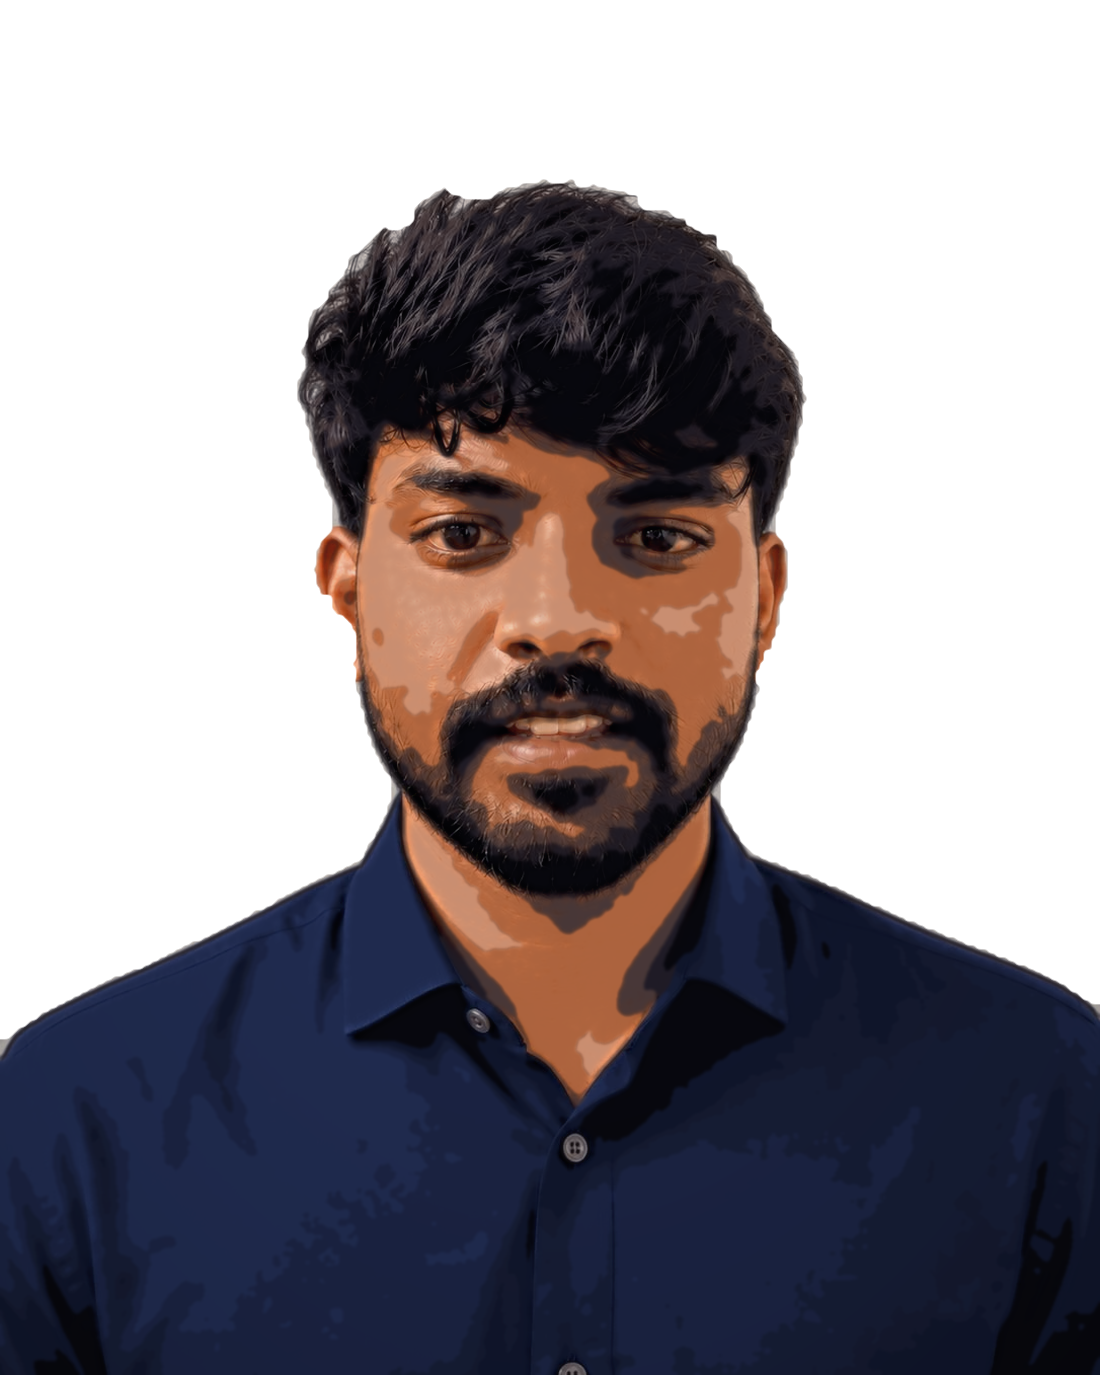
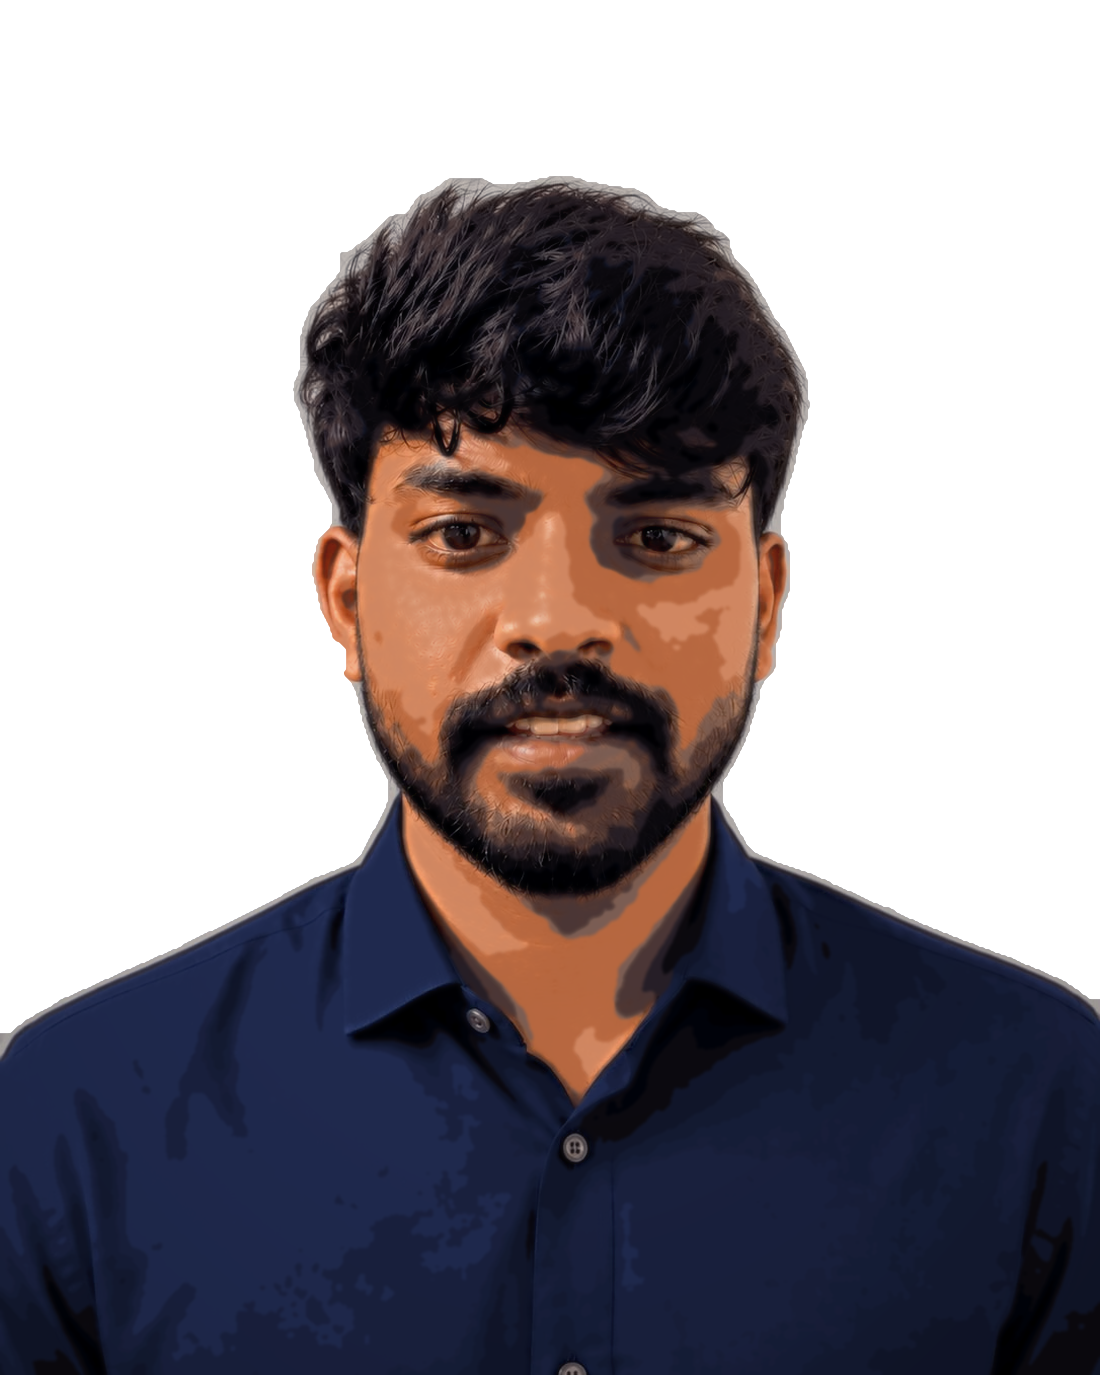
Fix the clipped ear and the white outline
The matte keyed on brightness, but lit skin on the ear reaches 0.81 while the backdrop
only spans 0.62-0.71, so the threshold was eating part of the ear. It now keys on local
texture instead, where the separation is clean: the backdrop measures 0.000 standard
deviation against 0.03-0.05 for skin. Brightness is kept only to exclude the shirt,
which is also flat. A closing pass repairs thin incursions.

The white outline was pale backdrop surviving just inside the silhouette. The matte is
eroded further, since the closing fills hairline concavities by pulling backdrop in,
and a wider decontamination band now redraws the rim from colours inside the subject.

diff --git a/web/scripts/portrait.py b/web/scripts/portrait.py
@@ -33,29 +33,78 @@ im = im.crop((left, top, left + w, top + h)).resize((Wt, Ht), Image.LANCZOS)
 gray = im.convert("L")
 
 # ------------------------------------------------- matte: cut off the flat backdrop
-sm = gray.resize((280, 350), Image.LANCZOS)
-a = np.asarray(sm).astype(np.float32) / 255.0
-bl = np.asarray(sm.filter(ImageFilter.GaussianBlur(2))).astype(np.float32) / 255.0
-cand = (bl > 0.58) & (np.abs(a - bl) < 0.04)
+#
+# Brightness alone cannot do this. Lit skin on the ear reaches 0.81 while the backdrop
+# only spans 0.62-0.71, so any brightness threshold eats part of the ear. Local texture
+# separates them cleanly instead: the backdrop's standard deviation is 0.000 and skin's
+# is 0.03-0.05. Brightness is kept only to exclude the dark shirt, which is also flat.
+_g = np.asarray(gray).astype(np.float32) / 255.0
+_mean = np.asarray(gray.filter(ImageFilter.BoxBlur(6))).astype(np.float32) / 255.0
+_sq = np.asarray(
+    Image.fromarray(np.clip(_g ** 2 * 255, 0, 255).astype(np.uint8)).filter(ImageFilter.BoxBlur(6))
+).astype(np.float32) / 255.0
+_std = np.sqrt(np.maximum(_sq - _mean ** 2, 0))
+# Smooth the texture map, or JPEG noise spikes leave holes in the backdrop that the
+# later closing inflates into opaque blocks.
+_std = np.asarray(
+    Image.fromarray(np.clip(_std * 2000, 0, 255).astype(np.uint8)).filter(ImageFilter.GaussianBlur(4))
+).astype(np.float32) / 2000.0
+cand_full = (_mean > 0.55) & (_std < 0.020)
+cand_full = np.asarray(
+    Image.fromarray((cand_full * 255).astype(np.uint8)).filter(ImageFilter.MedianFilter(9))
+) > 127
 
+# flood from the frame edge at half resolution, so only backdrop connected to the
+# border is removed and any enclosed bright patch stays foreground
+Sw, Sh = Wt // 2, Ht // 2
+cand = np.asarray(
+    Image.fromarray((cand_full * 255).astype(np.uint8)).resize((Sw, Sh), Image.BILINEAR)
+) > 127
 seed = np.zeros_like(cand)
 seed[0, :] = cand[0, :]
 seed[-1, :] = cand[-1, :]
 seed[:, 0] = cand[:, 0]
 seed[:, -1] = cand[:, -1]
 cur = Image.fromarray((seed * 255).astype(np.uint8))
-for _ in range(240):
+for _ in range(900):
     grown = (np.asarray(cur.filter(ImageFilter.MaxFilter(3))) > 127) & cand
     if grown.sum() == (np.asarray(cur) > 127).sum():
         break
     cur = Image.fromarray((grown * 255).astype(np.uint8))
 
-alpha = Image.fromarray(((~(np.asarray(cur) > 127)) * 255).astype(np.uint8))
-alpha = alpha.resize((Wt, Ht), Image.BILINEAR).point(lambda v: 255 if v > 128 else 0)
-for _ in range(3):
-    alpha = alpha.filter(ImageFilter.MinFilter(5))          # erode past the light fringe
-alpha = alpha.filter(ImageFilter.GaussianBlur(2.0))
-A = np.clip((np.asarray(alpha).astype(np.float32) / 255.0 - 0.4) / 0.32, 0, 1)
+fg = Image.fromarray(((~(np.asarray(cur) > 127)) * 255).astype(np.uint8))
+fg = fg.resize((Wt, Ht), Image.BILINEAR).point(lambda v: 255 if v > 128 else 0)
+
+# morphological closing repairs thin incursions, such as a bite taken out of an ear
+for _ in range(2):
+    fg = fg.filter(ImageFilter.MaxFilter(7))
+for _ in range(2):
+    fg = fg.filter(ImageFilter.MinFilter(7))
+
+# Erode further than feels necessary. The closing above fills concavities along the
+# hairline by pulling in backdrop pixels, and those show as a pale rim.
+alpha = fg.filter(ImageFilter.MinFilter(5)).filter(ImageFilter.MinFilter(5))
+alpha = alpha.filter(ImageFilter.GaussianBlur(1.2))
+A = np.clip((np.asarray(alpha).astype(np.float32) / 255.0 - 0.45) / 0.25, 0, 1)
+
+# ------------------------------------------------------- edge decontamination
+# Pixels just inside the silhouette still carry some pale backdrop, which shows as a
+# white outline. Replace the boundary band with an alpha-weighted average, so its
+# colour is drawn from inside the subject rather than from the backdrop behind it.
+_src = np.asarray(im).astype(np.float32) / 255.0
+_num = np.asarray(
+    Image.fromarray(np.clip(_src * A[..., None] * 255, 0, 255).astype(np.uint8))
+    .filter(ImageFilter.GaussianBlur(11))
+).astype(np.float32) / 255.0
+_den = np.asarray(
+    Image.fromarray(np.clip(A * 255, 0, 255).astype(np.uint8)).filter(ImageFilter.GaussianBlur(11))
+).astype(np.float32) / 255.0
+_inner = _num / np.maximum(_den, 0.02)[..., None]
+_band = np.clip((0.998 - A) / 0.75, 0, 1)[..., None]        # 0 deep inside, 1 at the rim
+im = Image.fromarray(
+    (np.clip(_src * (1 - _band) + _inner * _band, 0, 1) * 255).astype(np.uint8)
+)
+gray = im.convert("L")
 
 # ------------------------------------------------------------ graded photograph
 base = ImageEnhance.Color(im).enhance(1.30)
